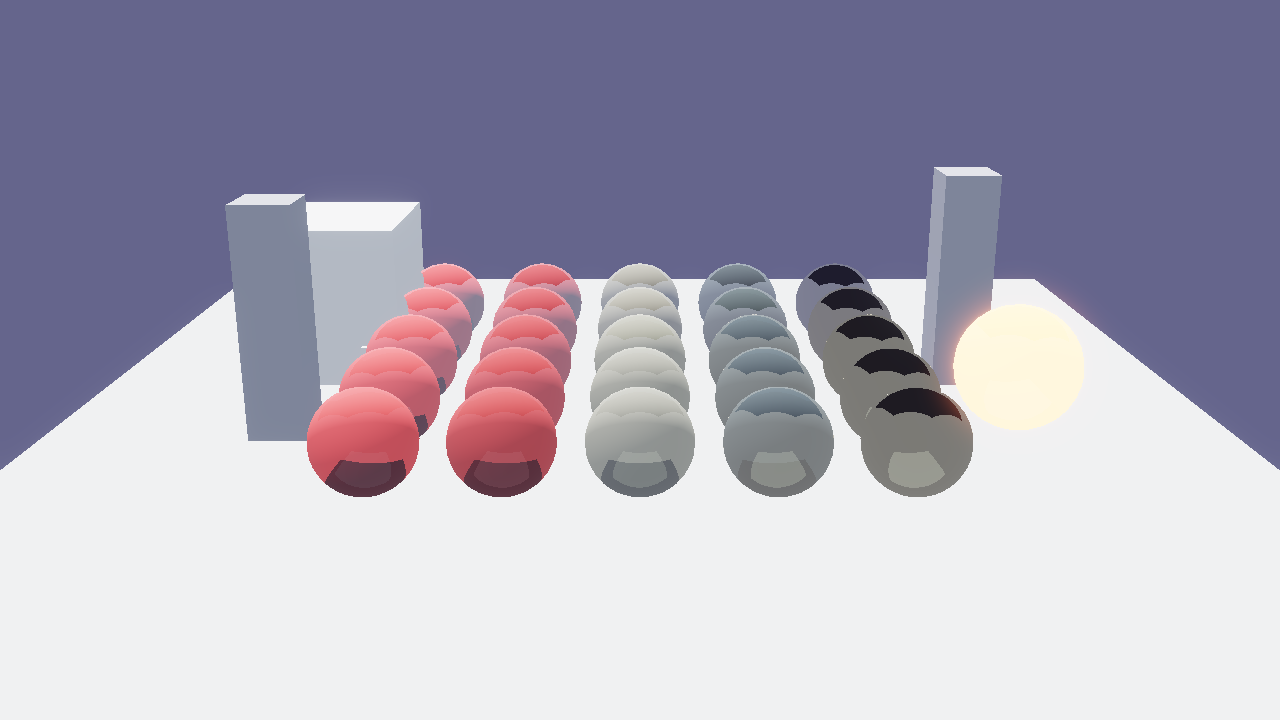
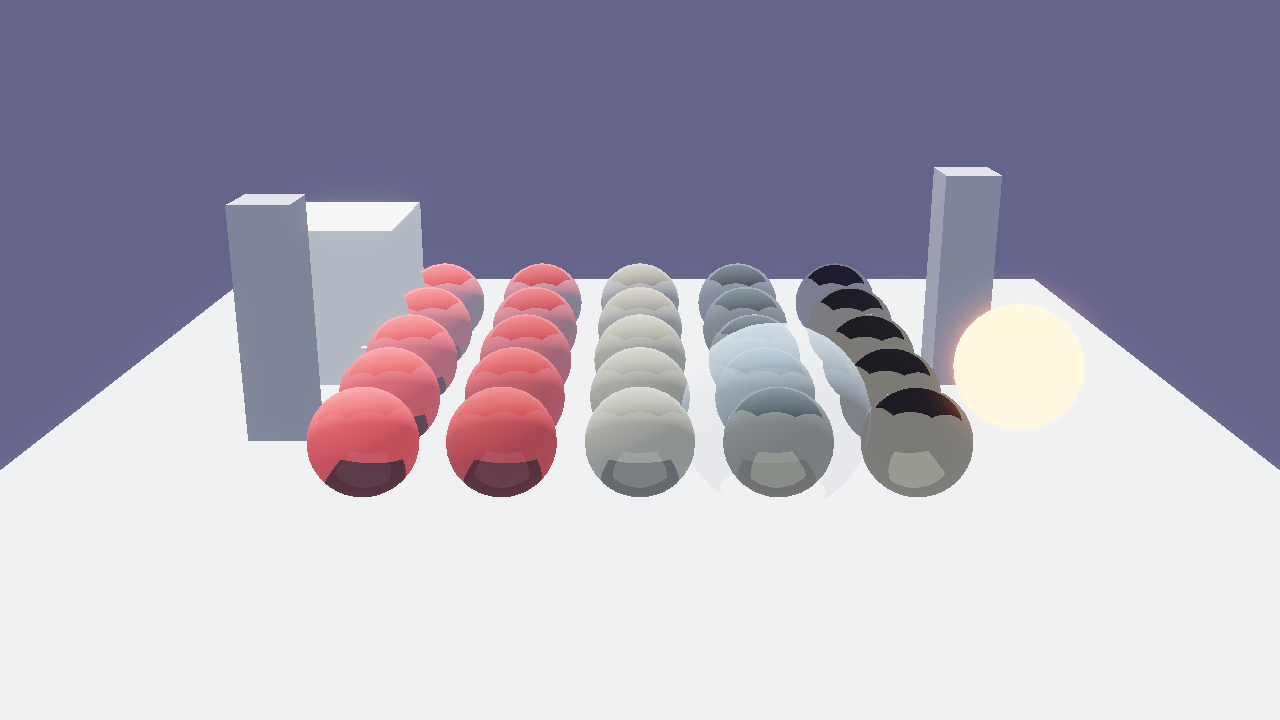
updates

Changed region(s): [[0.5312, 0.4278, 0.6875, 0.5806]]

diff --git a/engine/render/src/shadow_system.cpp b/engine/render/src/shadow_system.cpp
@@ -383,11 +383,17 @@ Mat4 create_stable_ortho_projection(const Vec3& min_bounds, const Vec3& max_boun
     float z_mult = 0.5f;
     float z_range = snapped_max.z - snapped_min.z;
 
+    // glm::ortho (RH) expects positive near/far distances. Light-view-space z
+    // values are negative (in front of the camera), so negate and swap:
+    //   near = closest to camera = negated max_z (smallest positive distance)
+    //   far  = farthest from camera = negated min_z (largest positive distance)
+    float near_val = -(snapped_max.z + z_range * z_mult);
+    float far_val  = -(snapped_min.z - z_range * z_mult);
+
     return glm::ortho(
         snapped_min.x, snapped_max.x,
         snapped_min.y, snapped_max.y,
-        snapped_min.z - z_range * z_mult,
-        snapped_max.z + z_range * z_mult
+        near_val, far_val
     );
 }
 

diff --git a/engine/render/src/render_pipeline.cpp b/engine/render/src/render_pipeline.cpp
@@ -882,7 +882,9 @@ void RenderPipeline::shadow_pass(const CameraData& camera,
         }
     }
 
-    if (!sun_light) return;
+    if (!sun_light) {
+        return;
+    }
 
     // Update shadow system
     m_shadow_system.update_cascades(camera.view_matrix, camera.projection_matrix,
